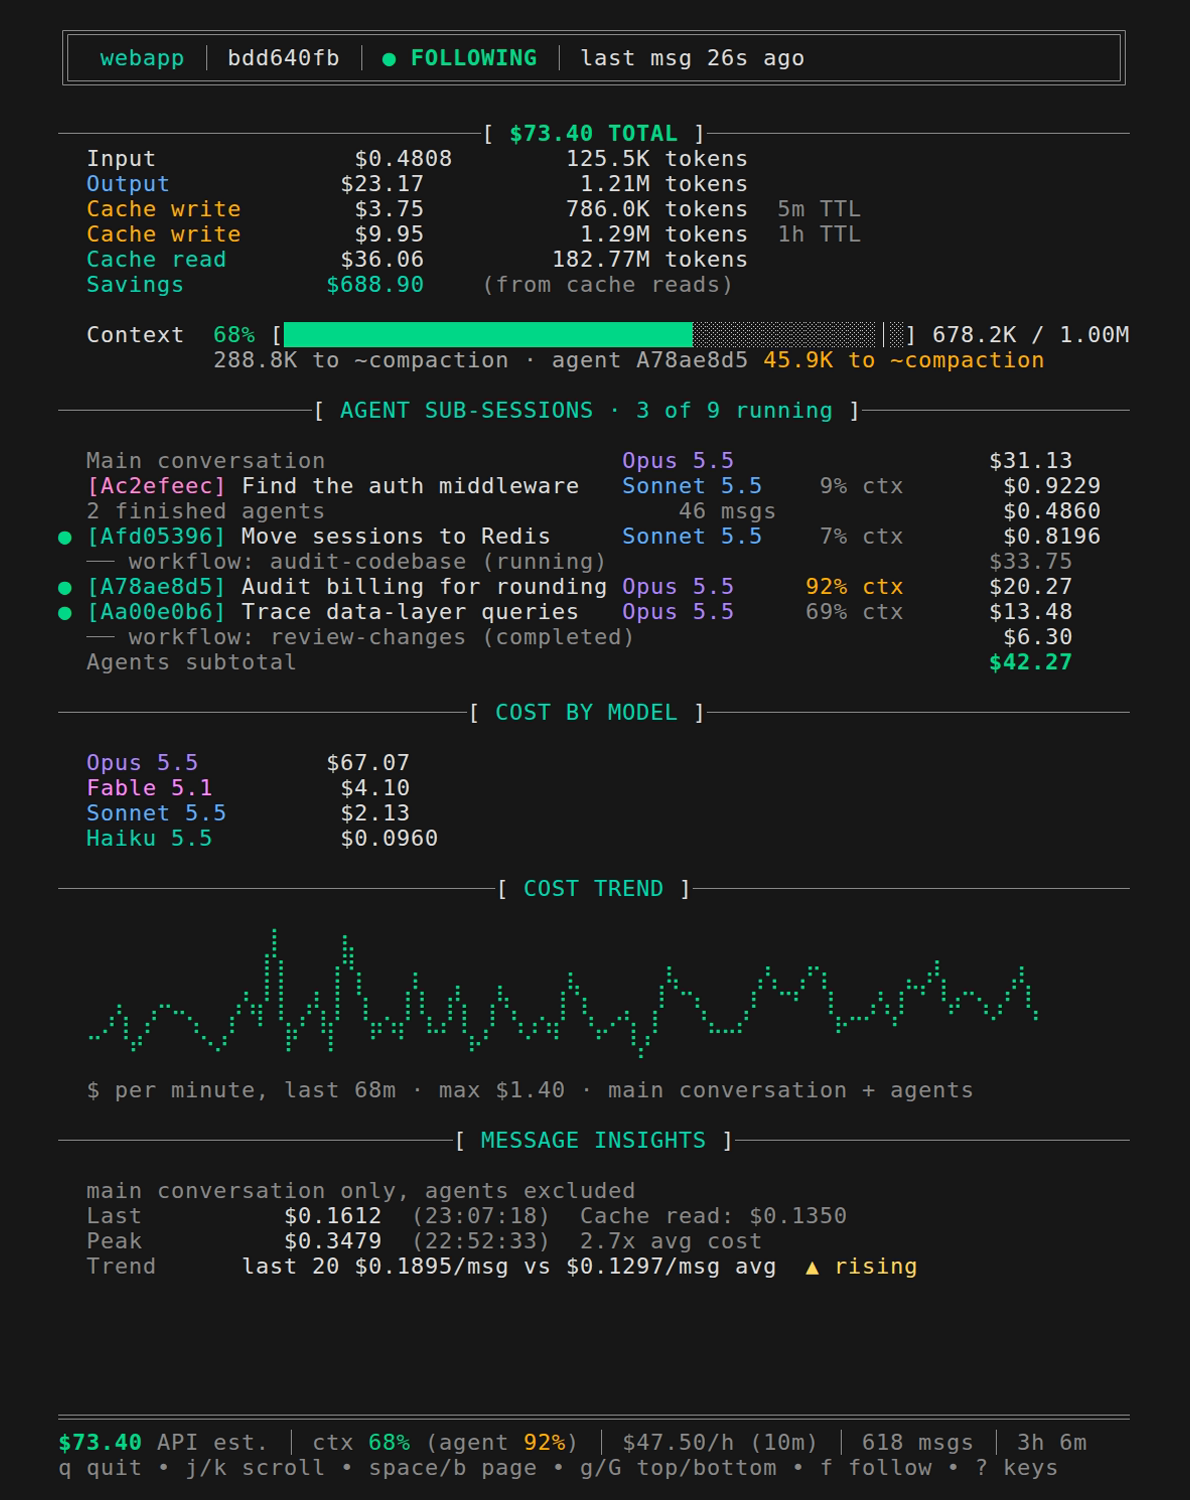
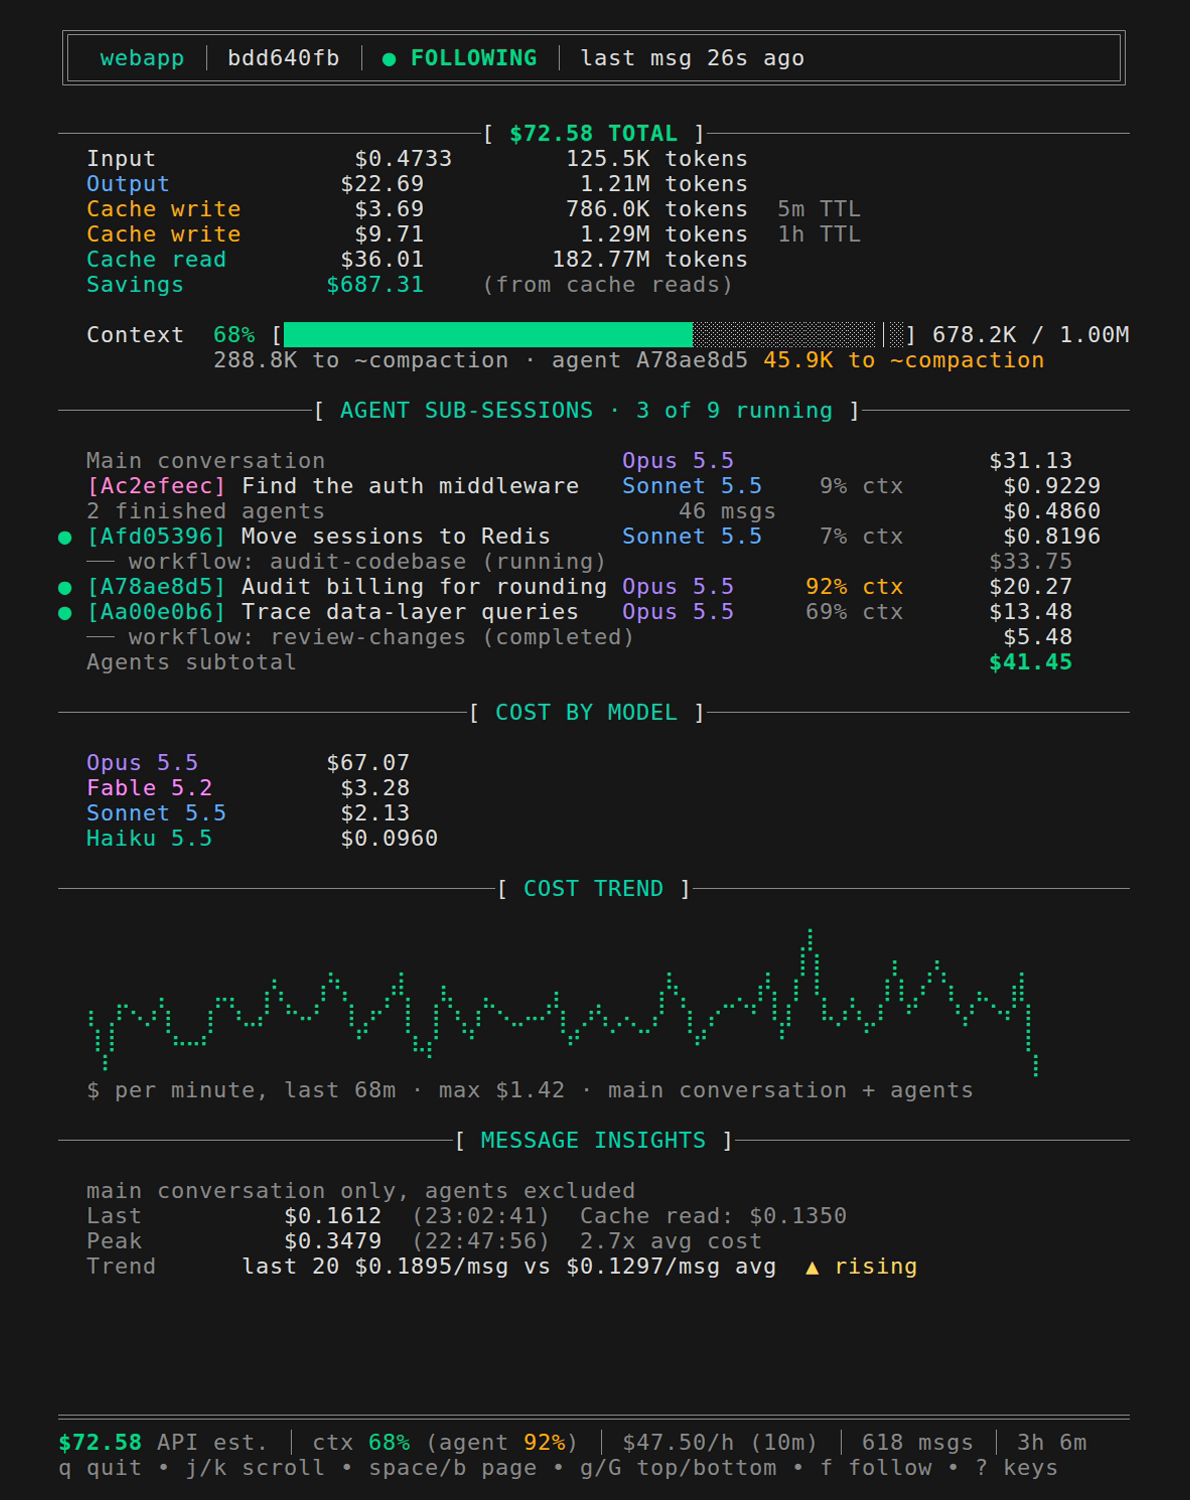
docs: show Fable 5.2 in the README screenshots (#526)
The fixture's two review-changes workflow agents that drew Fable now run
on claude-fable-5-2, and mkhistory.py gets the same swap. Both screenshots
are regenerated and the README's statusline example quotes the new totals.

diff --git a/docs/screenshots/mkfixture.py b/docs/screenshots/mkfixture.py
@@ -152,7 +152,7 @@ for run, name, status, agents in runs:
     rd = os.path.join(wp, big, "subagents", "workflows", run)
     for end, n, growth, task in agents:
         path = os.path.join(rd, "agent-a%016x.jsonl" % rng.getrandbits(64))
-        write_jsonl(path, convo(end, n or rng.randint(8, 22), [rng.choice(["claude-fable-5-1", "claude-opus-5-5"])], big, wd, ctx_cap=1_000_000, growth=growth))
+        write_jsonl(path, convo(end, n or rng.randint(8, 22), [rng.choice(["claude-fable-5-2", "claude-opus-5-5"])], big, wd, ctx_cap=1_000_000, growth=growth))
         write_meta(path, "general-purpose", task)
     os.makedirs(os.path.join(wp, big, "workflows"), exist_ok=True)
     with open(os.path.join(wp, big, "workflows", run + ".json"), "w") as fh:

diff --git a/docs/screenshots/mkhistory.py b/docs/screenshots/mkhistory.py
@@ -67,7 +67,7 @@ PAD = "x" * 2500  # tool output, so files weigh what real ones do per message
 # Turns in a session. A turn weighs about 3 KB without --skew and 9 KB with
 # it, so the skewed sessions are half as long to keep the history under 1 GB.
 TURNS = (50, 350) if args.skew else (100, 700)
-MODELS = ["claude-opus-5-5", "claude-sonnet-5-5", "claude-fable-5-1", "claude-haiku-5-5"]
+MODELS = ["claude-opus-5-5", "claude-sonnet-5-5", "claude-fable-5-2", "claude-haiku-5-5"]
 
 
 def ts(dt):

diff --git a/README.md b/README.md
@@ -293,7 +293,7 @@ Claude Code passes `session_id` and `transcript_path` to hooks and to the status
 `ficha statusline` prints a line for Claude Code's status line: the model, how full the context window is, what recent messages cost, and the session's total with the agents' share:
 
 ```text
-Opus 5.5 · ctx 68% · $0.19/msg ▲ · $73.40 (agents $42.27)
+Opus 5.5 · ctx 68% · $0.19/msg ▲ · $72.58 (agents $41.45)
 ```
 
 `$0.19/msg` is the average cost of recent messages in the main conversation. `▲` or `▼` means that's more than 20% above or below the session's average. The line leaves out the context before the first reply, the recent cost before the sixth message, and the agents' share when no agents ran.
